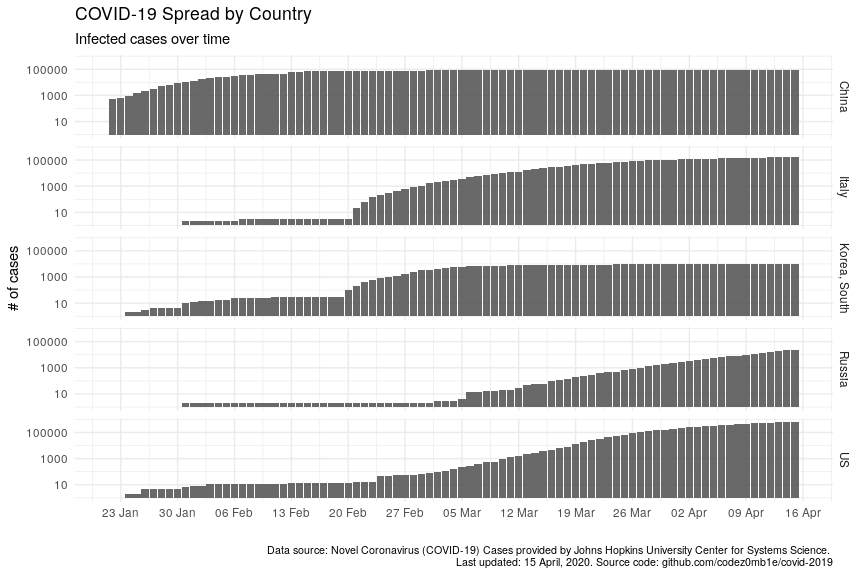
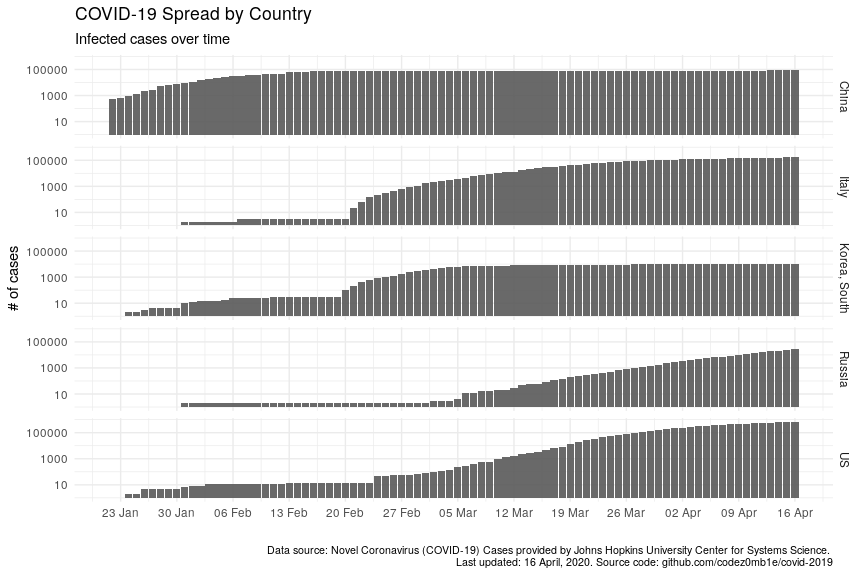
Daily report update

diff --git a/src/covid-19-yaaa.md b/src/covid-19-yaaa.md
@@ -1,6 +1,6 @@
 COVID YAAA\! or Yet Another Analyze Attempt
 ================
-16 April, 2020
+17 April, 2020
 
 #### Table of contents
 
@@ -94,18 +94,18 @@ spread_raw %>% sample_n(10)
 ```
 
     ## # A tibble: 10 x 5
-    ##    country     date       confirmed_n recovered_n deaths_n
-    ##    <chr>       <date>           <int>       <int>    <int>
-    ##  1 Zambia      2020-01-22           0           0        0
-    ##  2 Somalia     2020-02-03           0           0        0
-    ##  3 Cabo Verde  2020-02-13           0           0        0
-    ##  4 Barbados    2020-02-05           0           0        0
-    ##  5 Dominica    2020-02-07           0           0        0
-    ##  6 Timor-Leste 2020-04-05           1           0        0
-    ##  7 Barbados    2020-02-27           0           0        0
-    ##  8 Spain       2020-04-14      172541       67504    18056
-    ##  9 Kuwait      2020-01-29           0           0        0
-    ## 10 Cabo Verde  2020-03-17           0           0        0
+    ##    country   date       confirmed_n recovered_n deaths_n
+    ##    <chr>     <date>           <int>       <int>    <int>
+    ##  1 Australia 2020-03-22        1549          88        7
+    ##  2 Uruguay   2020-03-24         162           0        0
+    ##  3 Maldives  2020-02-07           0           0        0
+    ##  4 Burma     2020-03-04           0           0        0
+    ##  5 Sudan     2020-04-15          32           4        5
+    ##  6 Thailand  2020-03-15         114          35        1
+    ##  7 Eswatini  2020-01-29           0           0        0
+    ##  8 Egypt     2020-02-26           1           0        0
+    ##  9 Ethiopia  2020-04-08          55           4        2
+    ## 10 Guyana    2020-01-28           0           0        0
 
 ### Load countries data
 
@@ -135,27 +135,27 @@ countries_raw %>% sample_n(10)
 ```
 
     ##    iso_alpha3        ccse_name density fertility_rate land_area median_age migrants population
-    ## 1         UZB       Uzbekistan      79            2.4    425400         28    -8863   33469203
-    ## 2         ESP            Spain      94            1.3    498800         45    40000   46754778
-    ## 3         PNG Papua New Guinea      20            3.6    452860         22     -800    8947024
-    ## 4         ISR           Israel     400            3.0     21640         30    10000    8655535
-    ## 5         MNG         Mongolia       2            2.9   1553560         28     -852    3278290
-    ## 6         KOR     Korea, South     527            1.1     97230         44    11731   51269185
-    ## 7         SYR            Syria      95            2.8    183630         26  -427391   17500658
-    ## 8         FIN          Finland      18            1.5    303890         43    14000    5540720
-    ## 9         LIE    Liechtenstein     238             NA       160         NA       NA      38128
-    ## 10        LBN          Lebanon     667            2.1     10230         30   -30012    6825445
+    ## 1         SAU     Saudi Arabia      16            2.3   2149690         32   134979   34813871
+    ## 2         PER             Peru      26            2.3   1280000         31    99069   32971854
+    ## 3         TLS      Timor-Leste      89            4.1     14870         21    -5385    1318445
+    ## 4         CAN           Canada       4            1.5   9093510         41   242032   37742154
+    ## 5         VAT         Holy See    2003             NA         0         NA       NA        801
+    ## 6         UZB       Uzbekistan      79            2.4    425400         28    -8863   33469203
+    ## 7         PNG Papua New Guinea      20            3.6    452860         22     -800    8947024
+    ## 8         JPN            Japan     347            1.4    364555         48    71560  126476461
+    ## 9         GHA            Ghana     137            3.9    227540         22   -10000   31072940
+    ## 10        GBR   United Kingdom     281            1.8    241930         40   260650   67886011
     ##    urban_pop_rate world_share
-    ## 1            0.50      0.0043
-    ## 2            0.80      0.0060
-    ## 3            0.13      0.0011
-    ## 4            0.93      0.0011
-    ## 5            0.67      0.0004
-    ## 6            0.82      0.0066
-    ## 7            0.60      0.0022
-    ## 8            0.86      0.0007
-    ## 9            0.15      0.0000
-    ## 10           0.78      0.0009
+    ## 1            0.84      0.0045
+    ## 2            0.79      0.0042
+    ## 3            0.33      0.0002
+    ## 4            0.81      0.0048
+    ## 5              NA      0.0000
+    ## 6            0.50      0.0043
+    ## 7            0.13      0.0011
+    ## 8            0.92      0.0162
+    ## 9            0.57      0.0040
+    ## 10           0.83      0.0087
 
 ## Preprocessing
 
@@ -385,7 +385,7 @@ ggplot(plot_data, aes(x = since_1_confirmed_per_1M_date_n_days)) +
   )
 ```
 
-    ## Warning: Removed 75 rows containing missing values (position_stack).
+    ## Warning: Removed 81 rows containing missing values (position_stack).
 
     ## Warning: Removed 6 rows containing missing values (geom_col).
 
